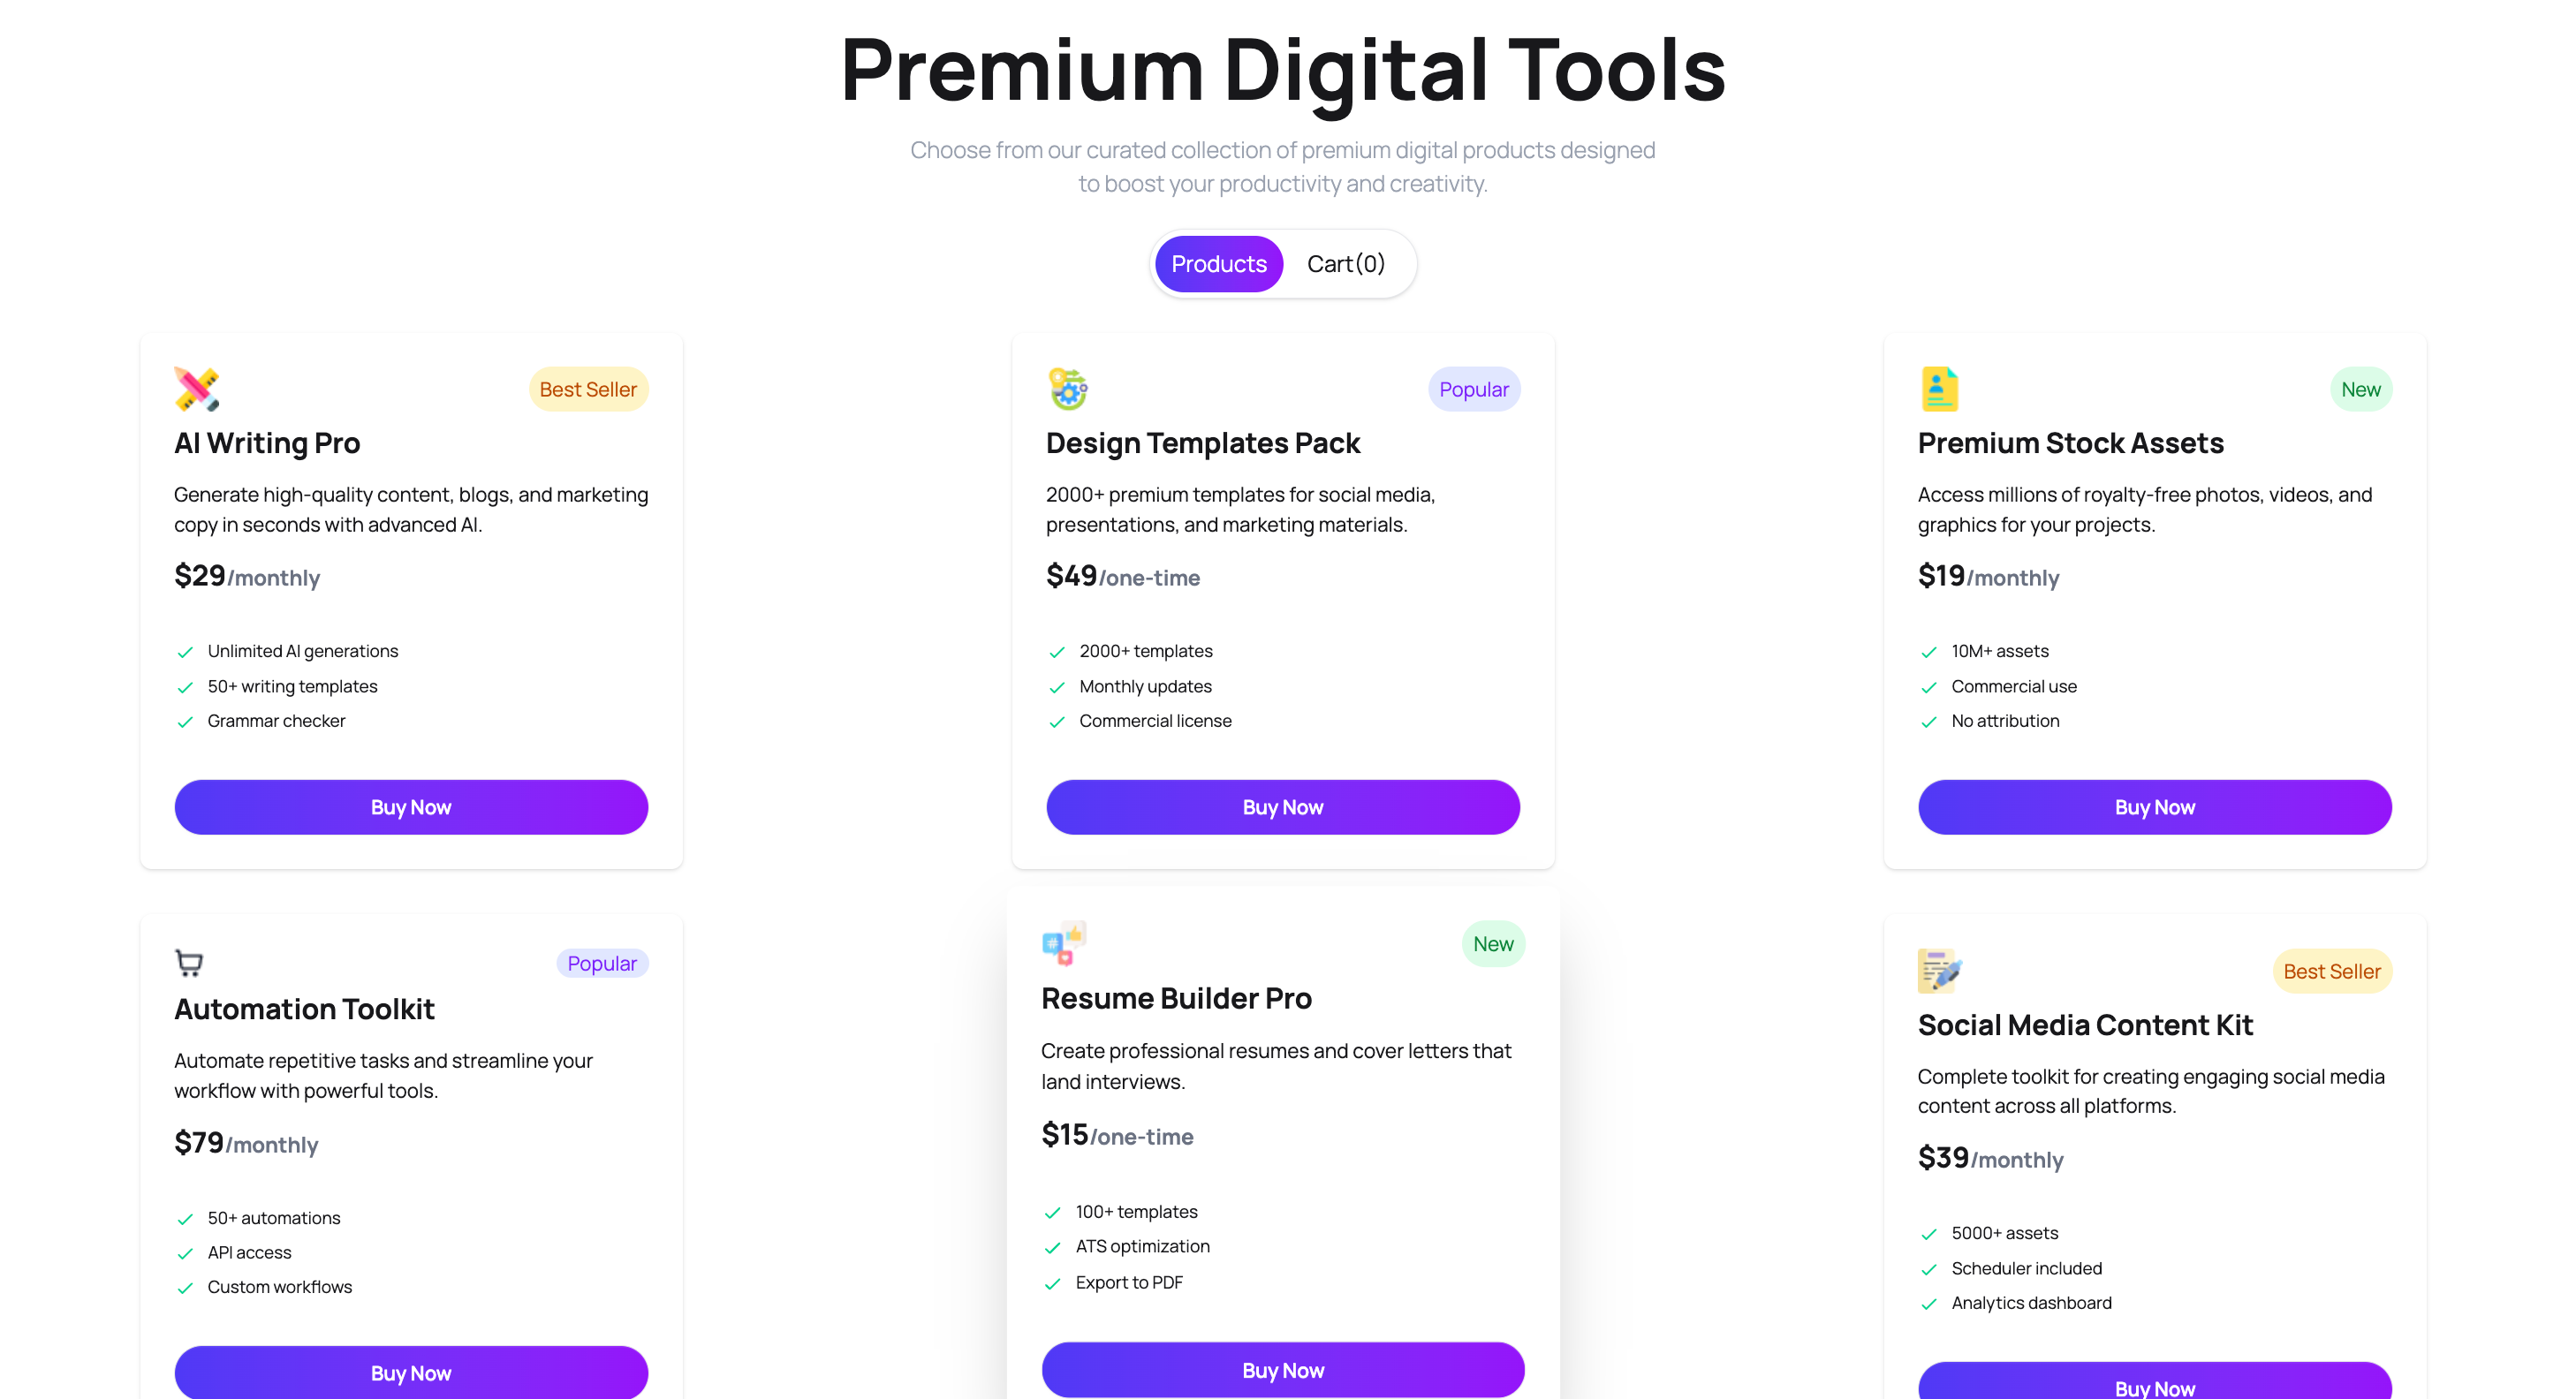
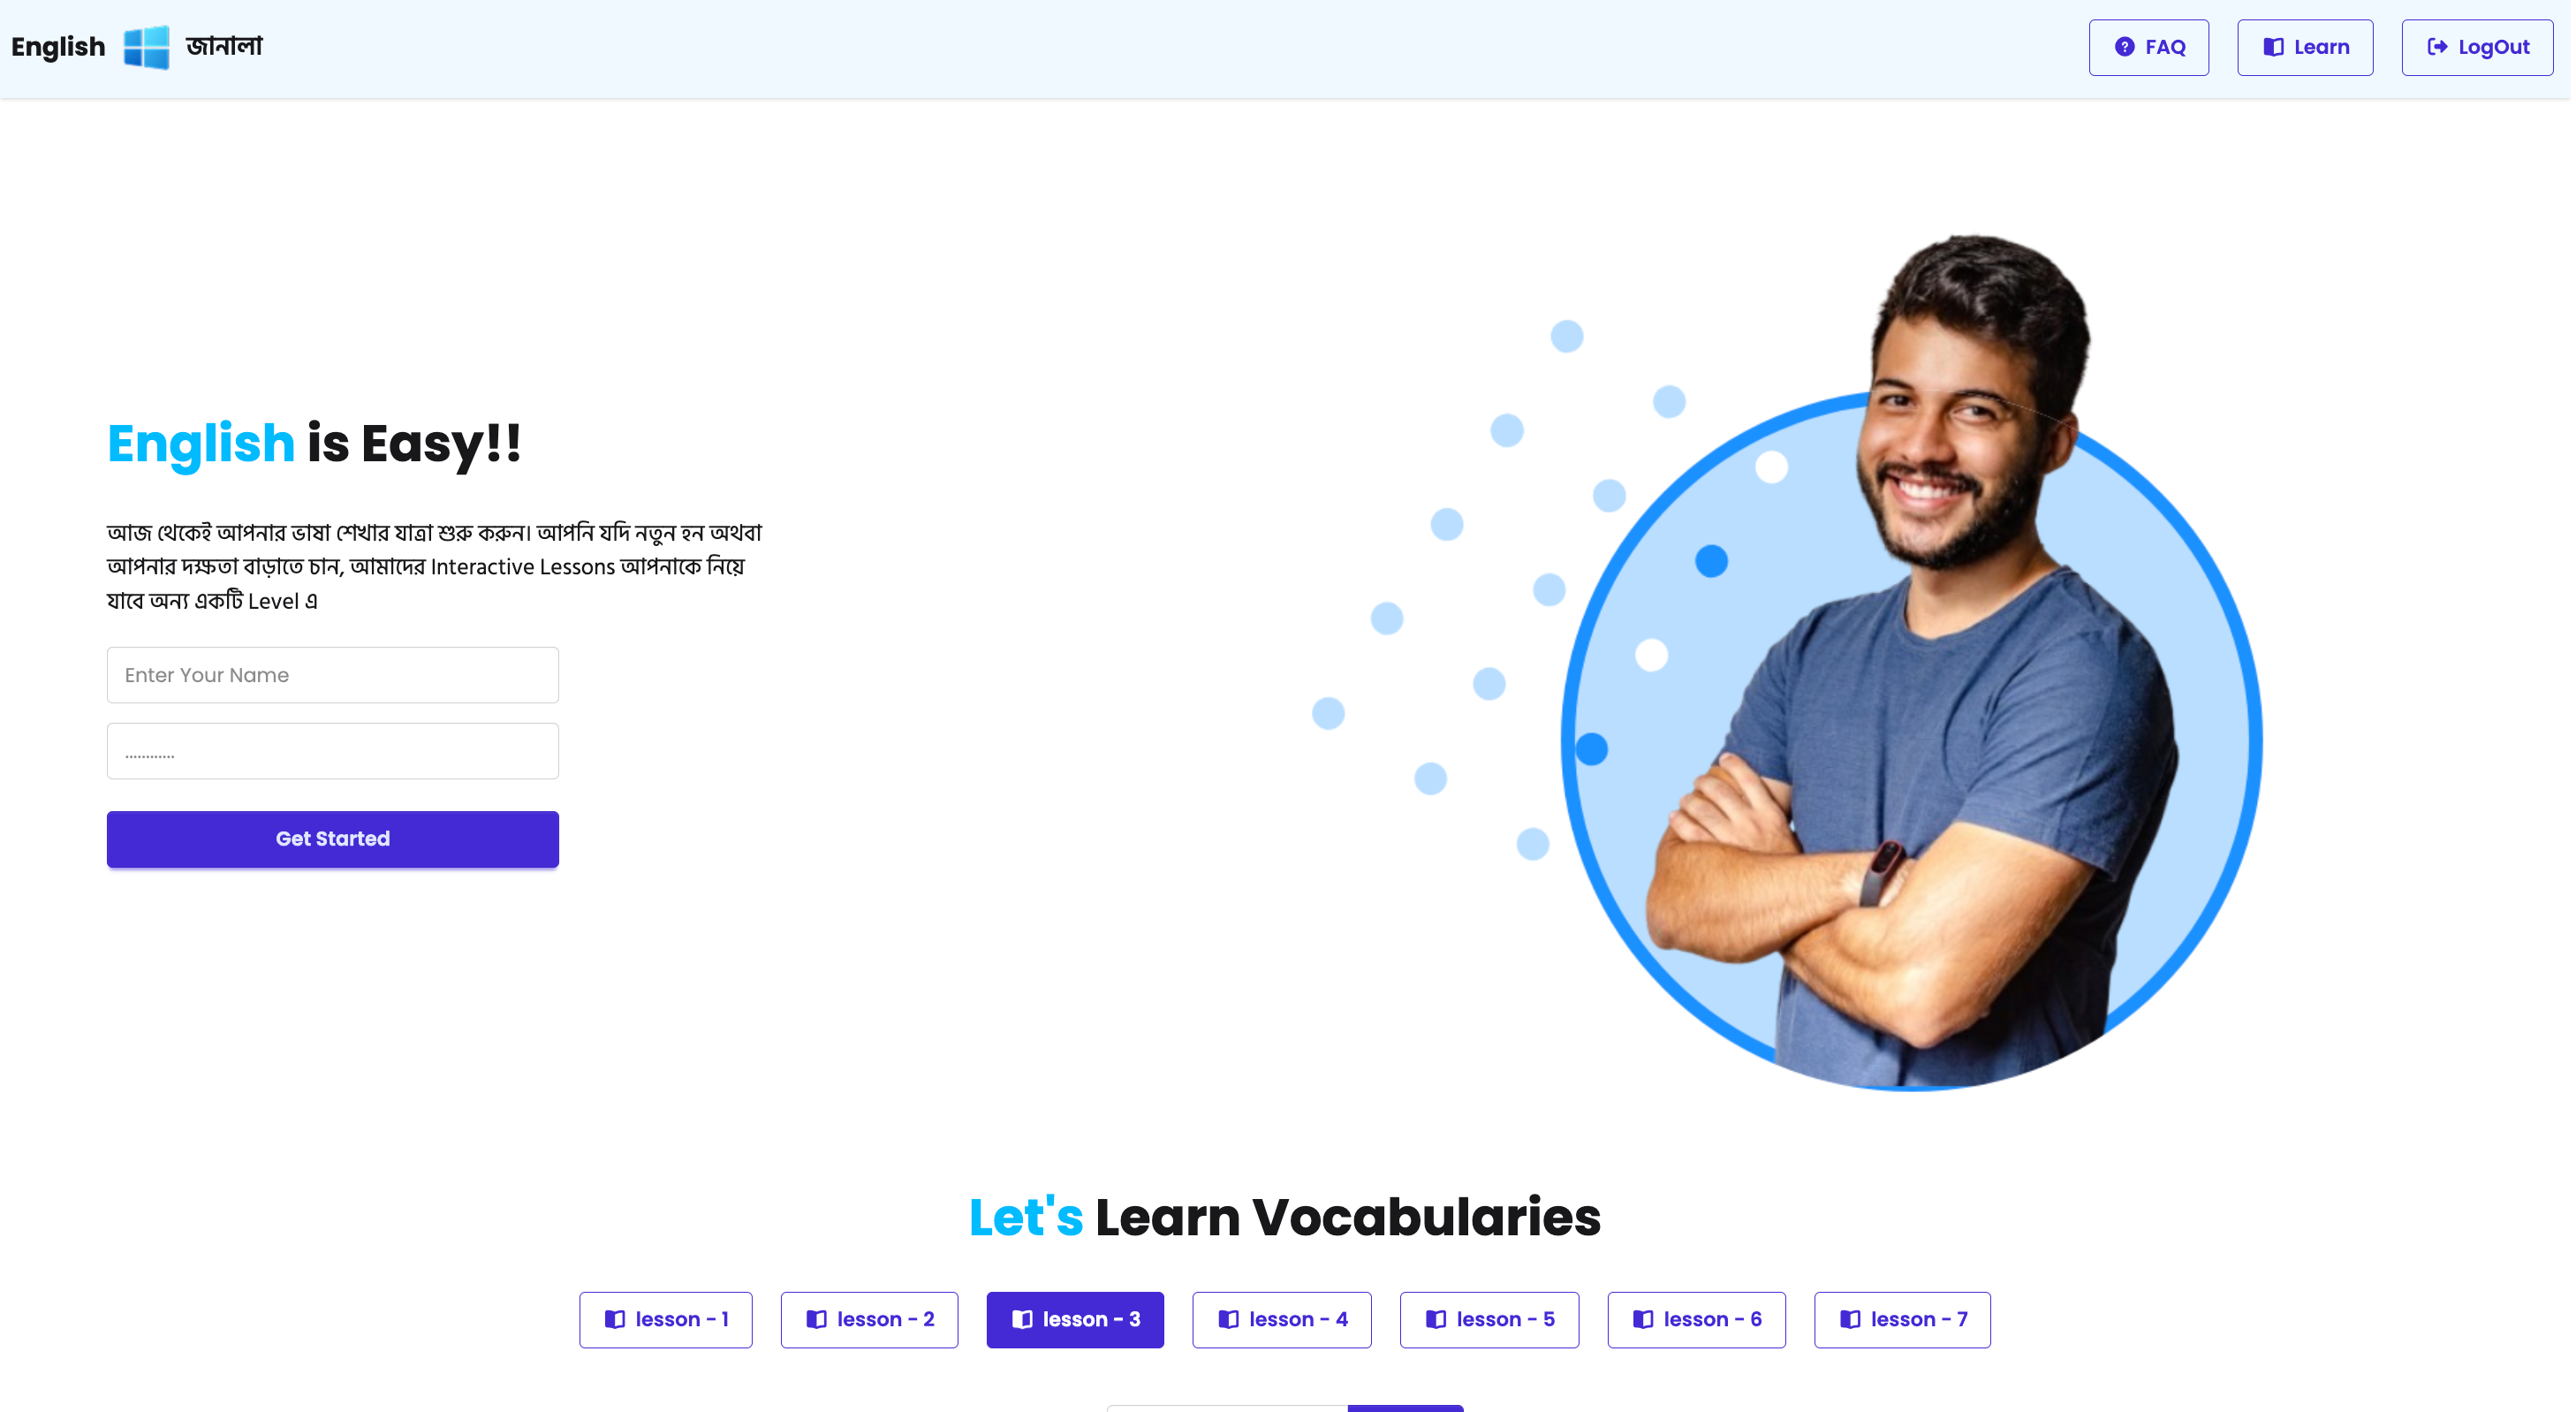
add 4 projects

diff --git a/src/sections/Projects.jsx b/src/sections/Projects.jsx
@@ -1,9 +1,12 @@
+import { ArrowUpRight } from "lucide-react";
+import { FaGithub } from "react-icons/fa";
+
 const projects = [
   {
     title: "Keen Keeper",
     description:
       "KeenKeeper is a responsive friendship tracker that helps users stay connected by managing friends, tracking interactions, and viewing communication analytics.",
-    image: "/projects/projects05.png",
+    image: "/projects/projects03.png",
     tags: ["Next", "Javascript", "Tailwind"],
     link: "#",
     github: "#",
@@ -21,7 +24,7 @@ const projects = [
     title: "AI Writing Assistant",
     description:
       "An intelligent writing tool powered by GPT-4, helping users create better content faster.",
-    image: "/projects/projects03.png",
+    image: "/projects/projects01.png",
     tags: ["React", "OpenAI", "Python", "FastAPI"],
     link: "#",
     github: "#",
@@ -30,7 +33,7 @@ const projects = [
     title: "Project Management Tool",
     description:
       "A collaborative workspace for teams with real-time updates, task tracking, and integrations.",
-    image: "/projects/projects01.png",
+    image: "/projects/projects04.png",
     tags: ["Next.js", "Socket.io", "MongoDB", "Redis"],
     link: "#",
     github: "#",
@@ -63,6 +66,72 @@ const Projects = () => {
         </div>
 
         {/* Projects Grid */}
+        <div className="grid md:grid-cols-2 gap-8">
+          {projects.map((project, idx) => (
+            <div
+              key={idx}
+              className="group glass rounded-2xl overflow-hidden animate-fade-in md:row-span-1"
+              style={{ animationDelay: `${(idx + 1) * 100}ms` }}
+            >
+              {/* Image */}
+              <div className="relative overflow-hidden aspect-video">
+                <img
+                  src={project.image}
+                  alt={project.title}
+                  className="w-full h-full object-cover transition-transform duration-700 group-hover:scale-110"
+                />
+                <div
+                  className="absolute inset-0 
+                bg-gradient-to-t from-card via-card/50
+                 to-transparent opacity-60"
+                />
+                {/* Overlay Links */}
+                <div className="absolute inset-0 flex items-center justify-center gap-4 opacity-0 group-hover:opacity-100 transition-opacity duration-300">
+                  <a
+                    href={project.link}
+                    className="p-3 rounded-full glass hover:bg-primary hover:text-primary-foreground transition-all"
+                  >
+                    <ArrowUpRight className="w-5 h-5" />
+                  </a>
+                  <a
+                    href={project.github}
+                    className="p-3 rounded-full glass hover:bg-primary hover:text-primary-foreground transition-all"
+                  >
+                    <FaGithub className="w-5 h-5" />
+                  </a>
+                </div>
+              </div>
+
+              {/* Content */}
+              <div className="p-6 space-y-4">
+                <div className="flex items-start justify-between">
+                  <h3 className="text-xl font-semibold group-hover:text-primary transition-colors">
+                    {project.title}
+                  </h3>
+                  <ArrowUpRight
+                    className="w-5 h-5 
+                  text-muted-foreground group-hover:text-primary
+                   group-hover:translate-x-1 
+                   group-hover:-translate-y-1 transition-all"
+                  />
+                </div>
+                <p className="text-muted-foreground text-sm">
+                  {project.description}
+                </p>
+                <div className="flex flex-wrap gap-2">
+                  {project.tags.map((tag, tagIdx) => (
+                    <span
+                      key={tagIdx}
+                      className="px-4 py-1.5 rounded-full bg-surface text-xs font-medium border border-border/50 text-muted-foreground hover:border-primary/50 hover:text-primary transition-all duration-300"
+                    >
+                      {tag}
+                    </span>
+                  ))}
+                </div>
+              </div>
+            </div>
+          ))}
+        </div>
       </div>
     </section>
   );